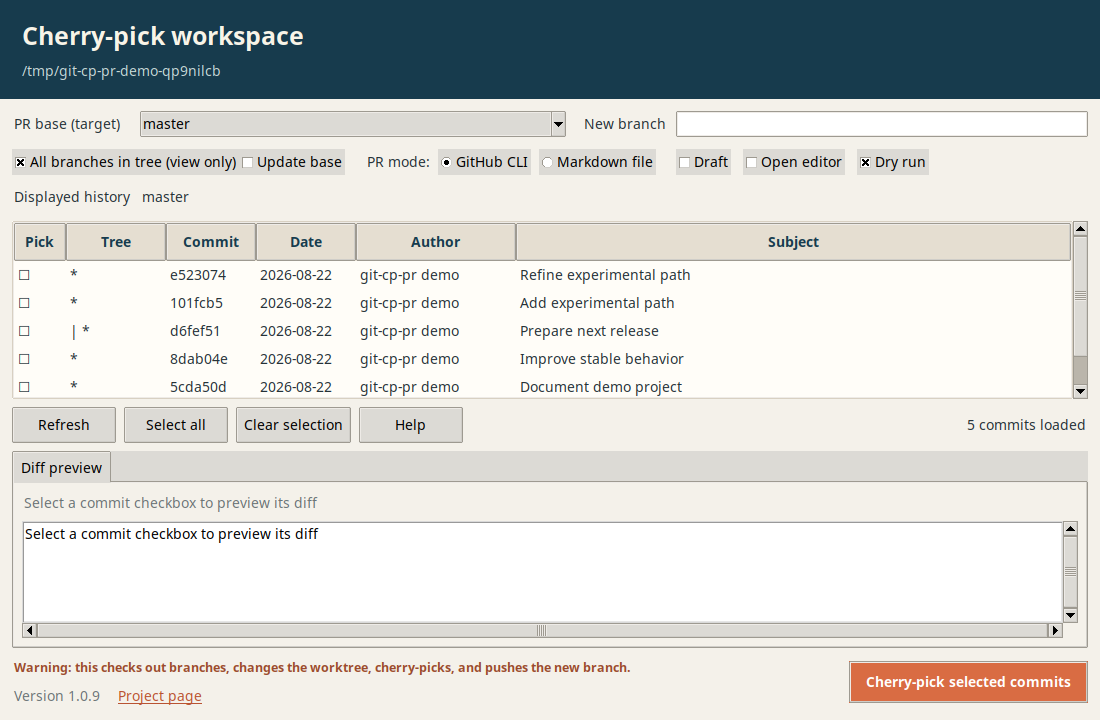
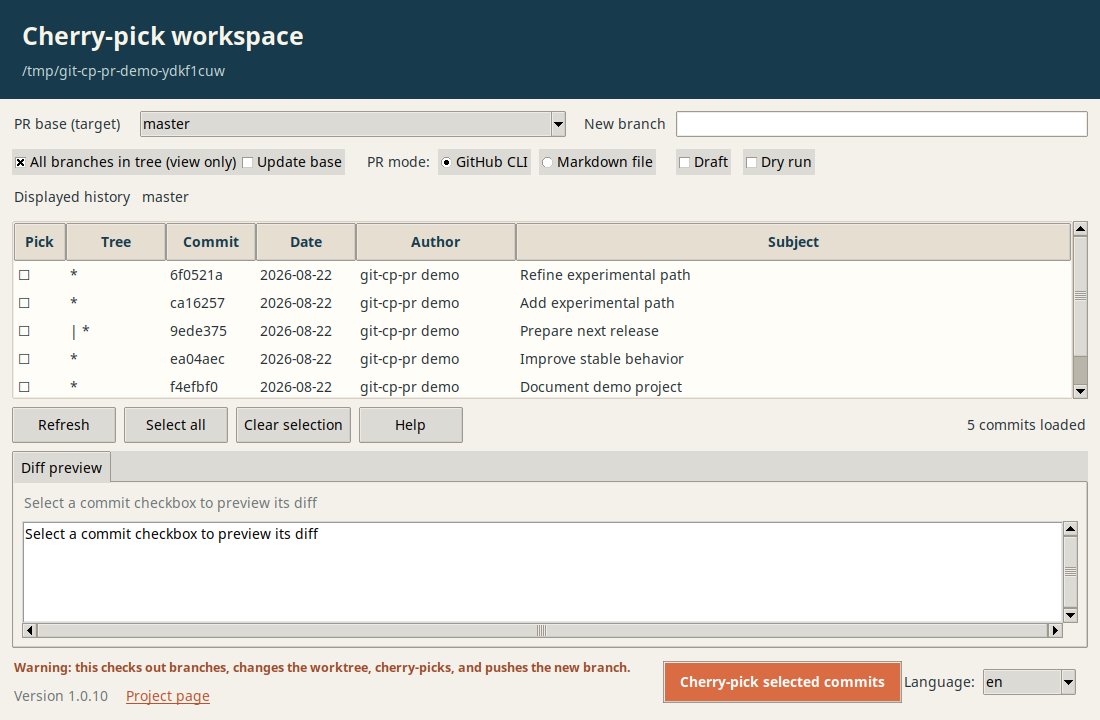
Update screenoshots

diff --git a/scripts/generate_demo_screenshots.py b/scripts/generate_demo_screenshots.py
@@ -112,6 +112,20 @@ def generate(output_dir: Path, keep_repo: bool) -> None:
     try:
         DemoRepository(demo_path).create()
         original_directory = Path.cwd()
+        previous_env = {
+            "LANG": os.environ.get("LANG"),
+            "LC_ALL": os.environ.get("LC_ALL"),
+            "LC_MESSAGES": os.environ.get("LC_MESSAGES"),
+            "LANGUAGE": os.environ.get("LANGUAGE"),
+            "XDG_CONFIG_HOME": os.environ.get("XDG_CONFIG_HOME"),
+        }
+        os.environ["LANG"] = "en_US.UTF-8"
+        os.environ["LC_ALL"] = "en_US.UTF-8"
+        os.environ["LC_MESSAGES"] = "en_US.UTF-8"
+        os.environ["LANGUAGE"] = "en_US:en"
+        isolated_config = demo_path / ".config"
+        isolated_config.mkdir(parents=True, exist_ok=True)
+        os.environ["XDG_CONFIG_HOME"] = str(isolated_config)
         os.chdir(demo_path)
         try:
             app = CommitPicker()
@@ -128,6 +142,11 @@ def generate(output_dir: Path, keep_repo: bool) -> None:
             app.mainloop()
         finally:
             os.chdir(original_directory)
+            for key, value in previous_env.items():
+                if value is None:
+                    os.environ.pop(key, None)
+                else:
+                    os.environ[key] = value
 
         if keep_repo:
             retained_path = output_dir / "demo-repository"
